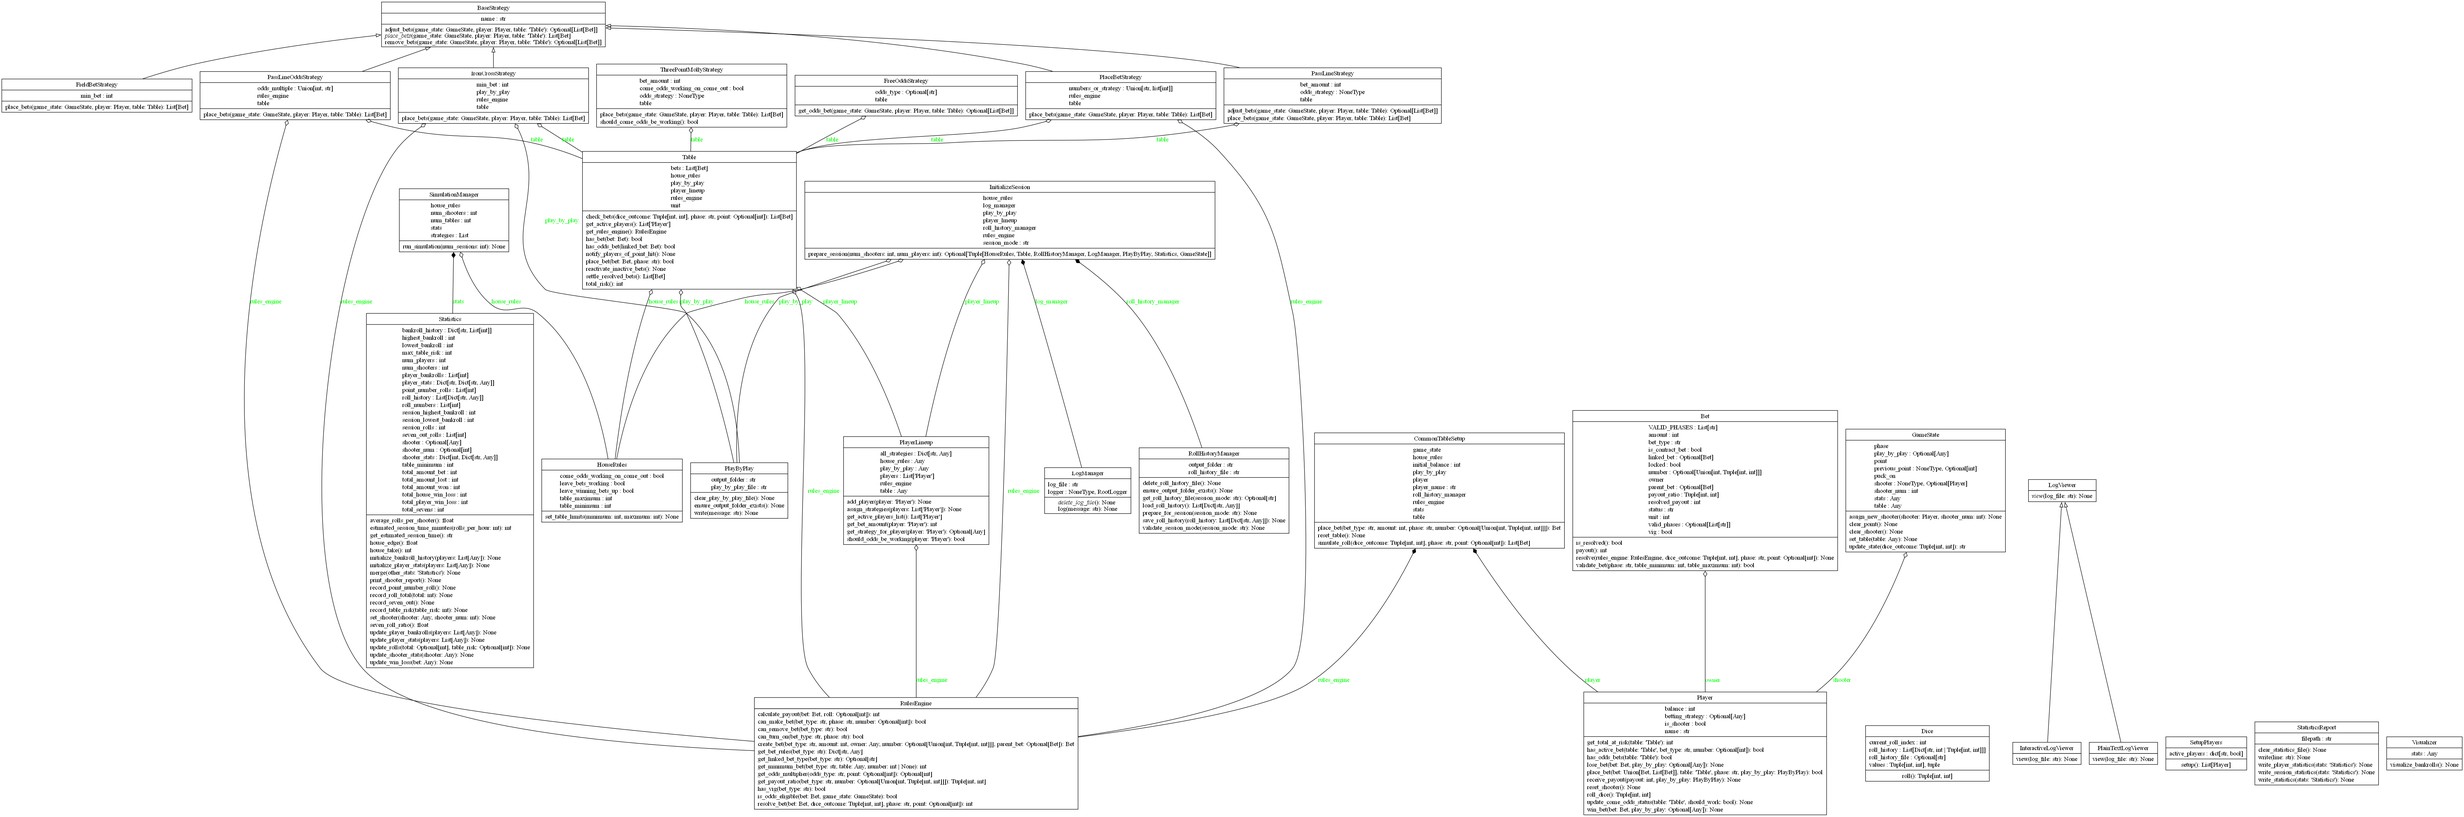
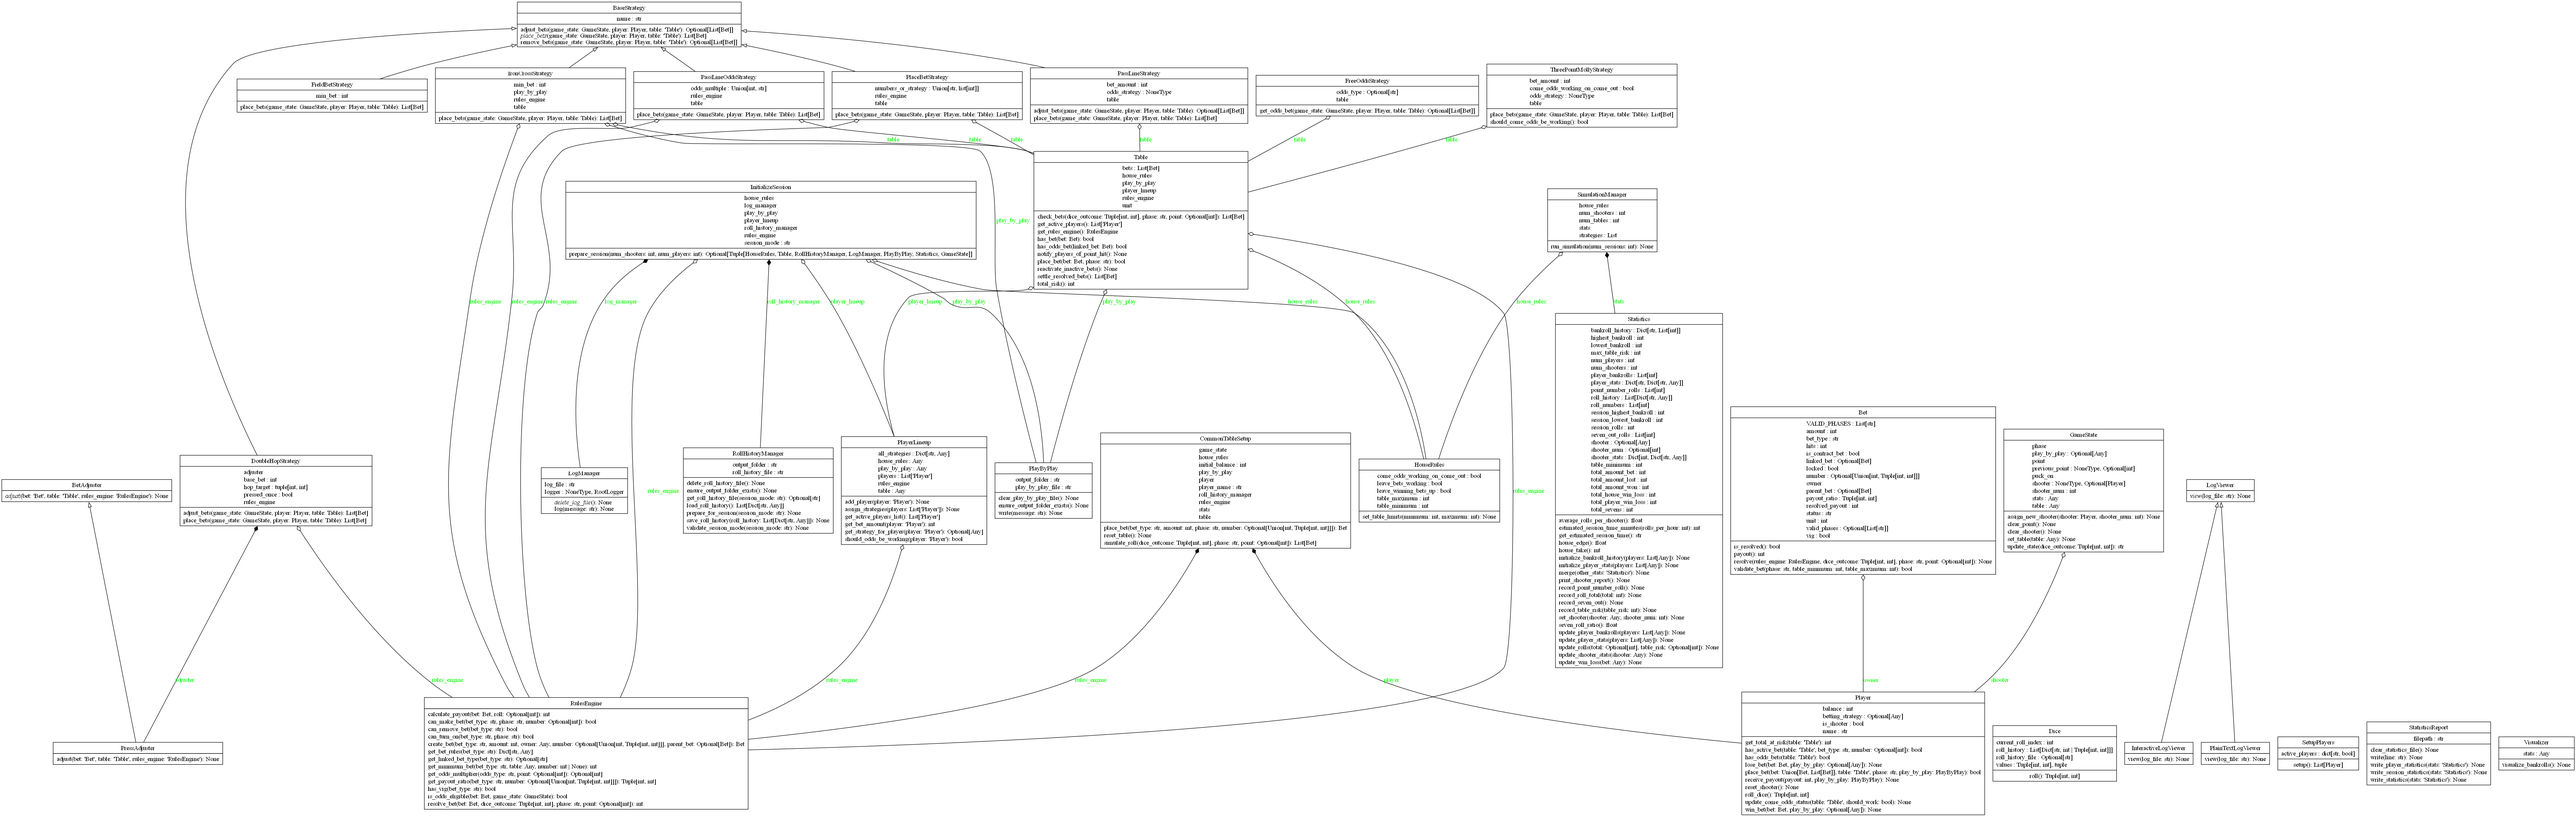
Added bet adjuster & double hop

diff --git a/tests/test_strategies.py b/tests/test_strategies.py
@@ -9,6 +9,7 @@ from craps.game_state import GameState
 from craps.strategies.pass_line_strategy import PassLineStrategy
 from craps.strategies.three_point_molly_strategy import ThreePointMollyStrategy
 from craps.strategies.iron_cross_strategy import IronCrossStrategy
+from craps.strategies.double_hop_strategy import DoubleHopStrategy
 from craps.statistics import Statistics
 from tests.test_utils import assert_contains_bet
 
@@ -27,7 +28,6 @@ class TestStrategies(unittest.TestCase):
         self.stats = Statistics(self.house_rules.table_minimum, num_shooters=1, num_players=1)
         self.game_state = GameState(stats=self.stats, play_by_play=self.play_by_play)
         self.game_state.set_table(self.table)
-
 
     def test_pass_line_base_bet(self):
         """Test placing a Pass Line bet with no odds."""
@@ -182,6 +182,47 @@ class TestStrategies(unittest.TestCase):
         # Retry — should return no additional bets
         bets = strategy.place_bets(self.game_state, self.player, self.table)
         self.assertFalse(bets, "Expected no additional bets once Iron Cross is established")
+
+    def setUp(self):
+        self.rules_engine = RulesEngine()
+        self.play_by_play = PlayByPlay()
+        self.house_rules = HouseRules({"table_minimum": 10, "table_maximum": 5000})
+        self.player = Player(name="DoubleHopTester", initial_balance=1000)
+        self.player_lineup = PlayerLineup(self.house_rules, None, self.play_by_play, self.rules_engine)
+        self.player_lineup.add_player(self.player)
+        self.table = Table(self.house_rules, self.play_by_play, self.rules_engine, self.player_lineup)
+        self.stats = Statistics(self.house_rules.table_minimum, num_shooters=1, num_players=1)
+        self.game_state = GameState(stats=self.stats, play_by_play=self.play_by_play)
+        self.game_state.set_table(self.table)
+        self.strategy = DoubleHopStrategy(hop_target=(1, 1), rules_engine=self.rules_engine, base_bet=10)
+        self.player.betting_strategy = self.strategy
+
+    def test_initial_placement(self):
+        bets = self.strategy.place_bets(self.game_state, self.player, self.table)
+        self.assertEqual(len(self.table.bets), 1)
+        hop_bet = self.table.bets[0]
+        self.assertEqual(hop_bet.number, (1, 1))
+        self.assertEqual(hop_bet.amount, 10)
+        self.assertEqual(hop_bet.bet_type, "Hop")
+
+    def test_press_and_reset_cycle(self):
+        # Step 1: Place initial bet
+        self.strategy.place_bets(self.game_state, self.player, self.table)
+        hop_bet = self.table.bets[0]
+
+        # Step 2: First win (should press to 310)
+        hop_bet.status = "won"
+        hop_bet.resolved_payout = 300
+        hop_bet.hits += 1
+        self.strategy.adjust_bets(self.game_state, self.player, self.table)
+        self.assertEqual(hop_bet.amount, 310)
+
+        # Step 3: Second win (should reset to base bet)
+        hop_bet.status = "won"
+        hop_bet.resolved_payout = 9300
+        hop_bet.hits += 1
+        self.strategy.adjust_bets(self.game_state, self.player, self.table)
+        self.assertEqual(hop_bet.amount, 10)
 
 if __name__ == "__main__":
     unittest.main()

diff --git a/craps/bet.py b/craps/bet.py
@@ -1,5 +1,6 @@
 from __future__ import annotations  # Enable forward references for type hints
 from typing import TYPE_CHECKING, List, Optional, Tuple, Union
+from craps.rules import BET_RULES
 import logging
 
 if TYPE_CHECKING:
@@ -24,7 +25,8 @@ class Bet:
         number: Optional[Union[int, Tuple[int, int]]] = None,  # ✅ Now supports tuples for Hop bets
         parent_bet: Optional[Bet] = None,
         linked_bet: Optional["Bet"] = None,
-        is_contract_bet: bool = False
+        is_contract_bet: bool = False,
+        hits: int = 0,
     ) -> None:
         """
         Initializes a Bet.
@@ -45,6 +47,7 @@ class Bet:
         self.is_contract_bet: bool = is_contract_bet  # Whether the bet is a contract bet
         self.linked_bet: Optional[Bet] = linked_bet
         self.resolved_payout: int = 0
+        self.hits: int = 0
 
     def validate_bet(self, phase: str, table_minimum: int, table_maximum: int) -> bool:
         """
@@ -60,15 +63,30 @@ class Bet:
             logging.warning(f"{self.owner.name}'s {self.bet_type} bet cannot be placed during the {phase} phase.")
             return False
 
-        # Check if the bet amount is within table limits
-        if self.amount < table_minimum:
+        # Determine the category the bet belongs to
+        bet_category = next(
+            (
+                category
+                for category, config in BET_RULES.items()
+                if isinstance(config, dict) and self.bet_type in {
+                    k for k in config.keys()
+                    if isinstance(config[k], dict)  # Only consider actual bet definitions
+                }
+            ),
+            None
+        )
+        
+        # Check table minimum unless it's an 'Other Bets' category
+        if bet_category != "Other Bets" and self.amount < table_minimum:
             logging.warning(f"{self.owner.name}'s {self.bet_type} bet amount ${self.amount} is below the table minimum of ${table_minimum}.")
             return False
+
+        # Check table maximum
         if self.amount > table_maximum:
             logging.warning(f"{self.owner.name}'s {self.bet_type} bet amount ${self.amount} exceeds the table maximum of ${table_maximum}.")
             return False
 
-        # Check if the bet amount is valid for the bet type
+        # Check unit multiple validity for Place/Buy
         if self.bet_type in ["Place", "Buy"]:
             if self.amount % self.unit != 0:
                 logging.warning(f"{self.owner.name}'s {self.bet_type} bet amount ${self.amount} must be a multiple of ${self.unit}.")

diff --git a/craps/bet_adjusters.py b/craps/bet_adjusters.py
@@ -1,0 +1,49 @@
+"""
+Bet Adjusters Module
+=====================
+This module defines a base class `BetAdjuster` and a growing library of concrete bet adjustment behaviors
+used to manage post-roll bet modifications such as pressing, collecting, regressing, etc.
+
+| Class Name                | Behavior Summary                                        |
+|--------------------------|---------------------------------------------------------|
+| `PressAdjuster`          | Full press after win (add full winnings to bet)         |
+| `HalfPressAdjuster`      | Add half the winnings to the bet                        |
+| `RegressAdjuster`        | Reduce the bet by a set number of units                 |
+| `PowerPressAdjuster`     | Press full winnings plus one additional unit            |
+| `PressAndCollectAdjuster`| Press a portion of the win and collect the rest         |
+| `TakeDownAdjuster`       | Set bet status to inactive or remove from table         |
+| `UnitPressAdjuster`      | Press in fixed increments (e.g., $6)                    |
+| `TargetPressAdjuster`    | Keep pressing until target reached                      |
+| `PressAcrossAdjuster`    | Press all place bets                                    |
+| `PressInsideAdjuster`    | Press 5/6/8/9                                           |
+| `PressOutsideAdjuster`   | Press 4/10                                              |
+"""
+
+from abc import ABC, abstractmethod
+from typing import TYPE_CHECKING
+
+if TYPE_CHECKING:
+    from craps.bet import Bet
+    from craps.table import Table
+    from craps.rules_engine import RulesEngine
+
+
+class BetAdjuster(ABC):
+    """Abstract base class for bet adjustment behaviors."""
+
+    @abstractmethod
+    def adjust(self, bet: "Bet", table: "Table", rules_engine: "RulesEngine") -> None:
+        pass
+
+
+class PressAdjuster(BetAdjuster):
+    """
+    Fully presses the bet by adding the winnings to the current amount
+    after a win. Assumes the bet has been resolved and won.
+    """
+
+    def adjust(self, bet: "Bet", table: "Table", rules_engine: "RulesEngine") -> None:
+        if bet.status != "won":
+            return
+
+        bet.amount += bet.resolved_payout  # Add winnings to bet in-place

diff --git a/craps/strategies/double_hop_strategy.py b/craps/strategies/double_hop_strategy.py
@@ -1,0 +1,47 @@
+from __future__ import annotations
+from typing import TYPE_CHECKING, List
+from craps.bet import Bet
+from craps.base_strategy import BaseStrategy
+from craps.bet_adjusters import PressAdjuster
+
+if TYPE_CHECKING:
+    from craps.rules_engine import RulesEngine
+    from craps.game_state import GameState
+    from craps.player import Player
+    from craps.table import Table
+
+class DoubleHopStrategy(BaseStrategy):
+    def __init__(self, hop_target: tuple[int, int], rules_engine: RulesEngine, base_bet: int) -> None:
+        super().__init__("Double Hop")
+        self.hop_target = hop_target
+        self.rules_engine = rules_engine
+        self.base_bet = base_bet
+        self.pressed_once = False  # <-- track press state
+        self.adjuster = PressAdjuster()
+
+    def place_bets(self, game_state: GameState, player: Player, table: Table) -> List[Bet]:
+        # Only place the bet if it's not already present
+        existing = next(
+            (b for b in table.bets if b.owner == player and b.bet_type == "Hop" and b.number == self.hop_target),
+            None
+        )
+
+        if not existing:
+            bet = self.rules_engine.create_bet("Hop", self.base_bet, player, number=self.hop_target)
+            if game_state.play_by_play is not None:
+                player.place_bet(bet, table, game_state.phase, game_state.play_by_play)
+
+        return []
+
+    def adjust_bets(self, game_state: GameState, player: Player, table: Table) -> List[Bet]:
+        for bet in table.bets:
+            if bet.owner == player and bet.bet_type == "Hop" and bet.number == self.hop_target:
+                if bet.status == "won":
+                    if bet.hits % 2 == 1:
+                        # First, third, fifth win → press
+                        self.adjuster.adjust(bet, table, self.rules_engine)
+                    else:
+                        # Second, fourth, sixth win → reset
+                        bet.amount = self.base_bet
+
+        return []

diff --git a/craps/single_session.py b/craps/single_session.py
@@ -144,15 +144,23 @@ def run_single_session(
             state_message = game_state.update_state(outcome)
             play_by_play.write(state_message)
             
+            # 💡 Adjust bets after resolution (if strategy supports it)
+            for player in players:
+                if hasattr(player.betting_strategy, "adjust_bets"):
+                    player.betting_strategy.adjust_bets(game_state, player, table)
+
             # 🧼 For remaining Place/Buy/Lay bets, set status based on puck + house rules
             for bet in table.bets:
                 if bet.bet_type == "Field":
                     bet.status = "active"
-                if bet.bet_type in ["Place", "Buy", "Lay"]:
+                elif bet.bet_type in ["Place", "Buy", "Lay"]:
                     if game_state.phase == "point" or house_rules.leave_bets_working:
                         bet.status = "active"
                     else:
                         bet.status = "inactive"
+                elif bet.bet_type in ["Hop", "Hardways", "Proposition"]:
+                    if bet.status == "won":
+                        bet.status = "active"
 
             # 🛠 Log current player bets
             for player in players:

diff --git a/craps/lineup.py b/craps/lineup.py
@@ -5,6 +5,7 @@ from craps.strategies.place_strategy import PlaceBetStrategy
 from craps.strategies.field_strategy import FieldBetStrategy
 from craps.strategies.iron_cross_strategy import IronCrossStrategy
 from craps.strategies.three_point_molly_strategy import ThreePointMollyStrategy
+from craps.strategies.double_hop_strategy import DoubleHopStrategy
 from craps.rules_engine import RulesEngine
 
 if TYPE_CHECKING:
@@ -40,6 +41,7 @@ class PlayerLineup:
             "Inside": PlaceBetStrategy(table=self.table, rules_engine=self.rules_engine, numbers_or_strategy="inside",),
             "Across": PlaceBetStrategy(table=self.table, rules_engine=self.rules_engine, numbers_or_strategy="across",),
             "Place 68": PlaceBetStrategy(table=self.table, numbers_or_strategy=[6, 8], rules_engine=self.rules_engine),
+            "Double Aces": DoubleHopStrategy(base_bet=5, hop_target=(1, 1), rules_engine=rules_engine)
         }
 
     def add_player(self, player: "Player") -> None:

diff --git a/config.py b/config.py
@@ -1,14 +1,15 @@
 # File: .\config.py
 
 ACTIVE_PLAYERS = {
-    "Pass-Line": True,
-    "Pass-Line w/ Odds": True,
-    "Field": True,
-    "Iron Cross": True,
-    "3-Point Molly": True,
-    "Inside": True,
-    "Across": True,
-    "Place 68": True,
+    "Pass-Line": False,
+    "Pass-Line w/ Odds": False,
+    "Field": False,
+    "Iron Cross": False,
+    "3-Point Molly": False,
+    "Inside": False,
+    "Across": False,
+    "Place 68": False,
+    "Double Aces": True,
 }
 
 # Add a new configuration entry for session mode

diff --git a/craps/table.py b/craps/table.py
@@ -118,6 +118,7 @@ class Table:
 
             # ✅ Handle Lost Bets
             if bet.status == "lost":
+                bet.hits = 0
                 bet.owner.lose_bet(bet, self.play_by_play)
                 self.bets.remove(bet)
                 settled_bets.append(bet)
@@ -131,6 +132,7 @@ class Table:
 
             # ✅ Handle Winning Bets
             elif bet.status == "won":
+                bet.hits += 1
                 bet.owner.win_bet(bet, self.play_by_play)
                 settled_bets.append(bet)
 
